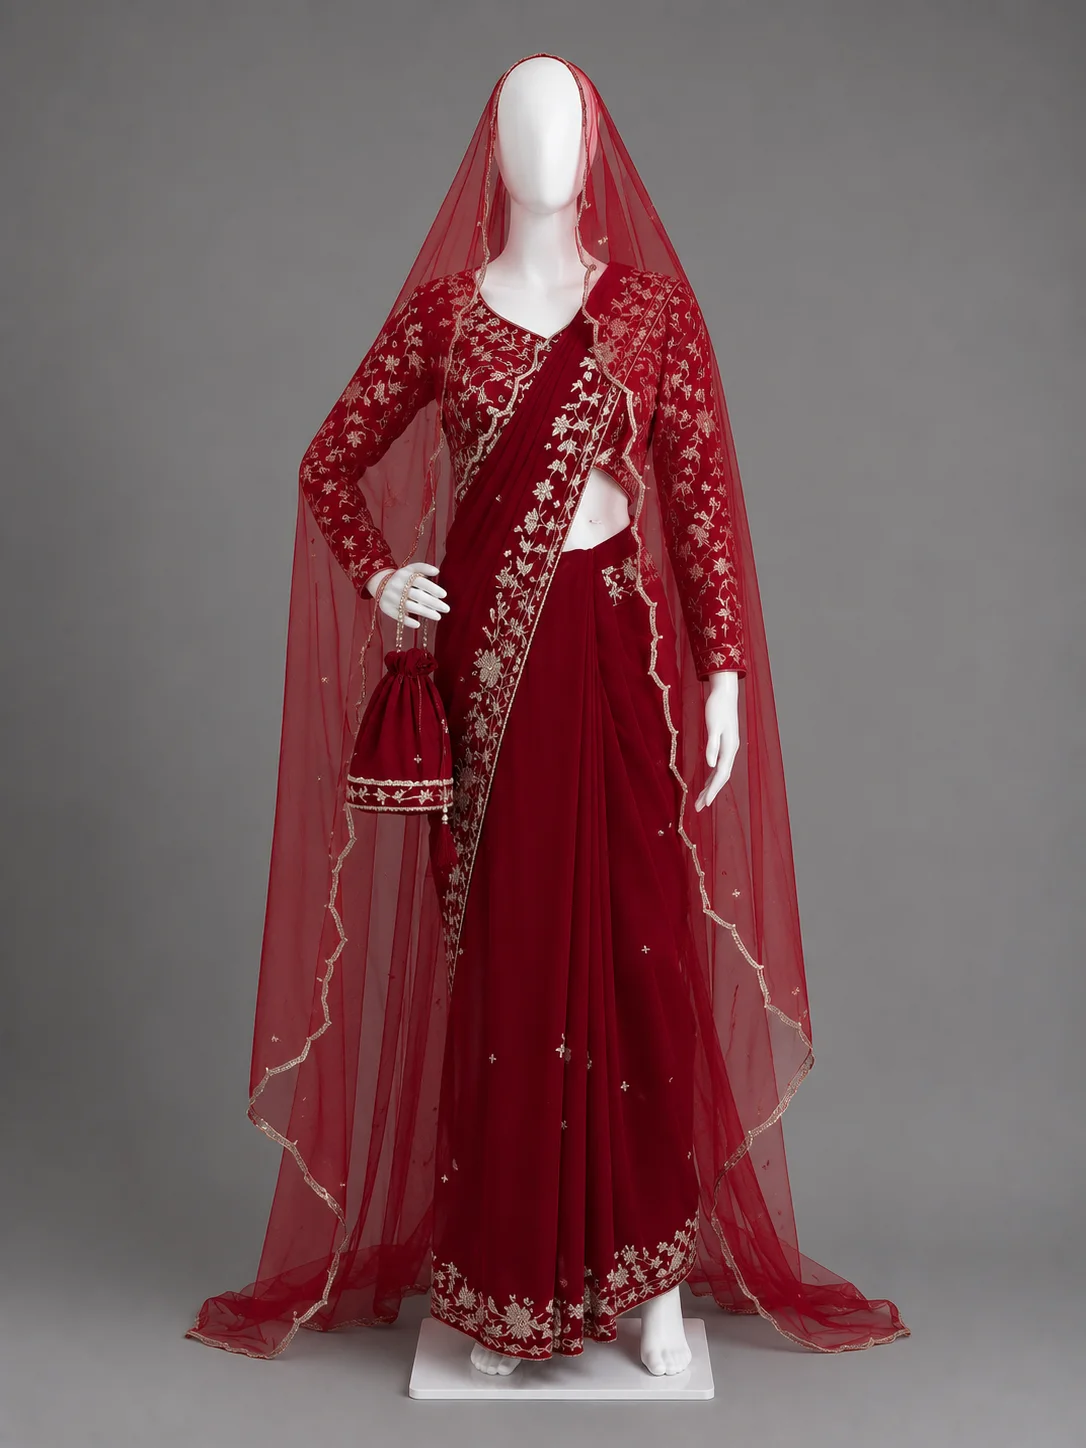
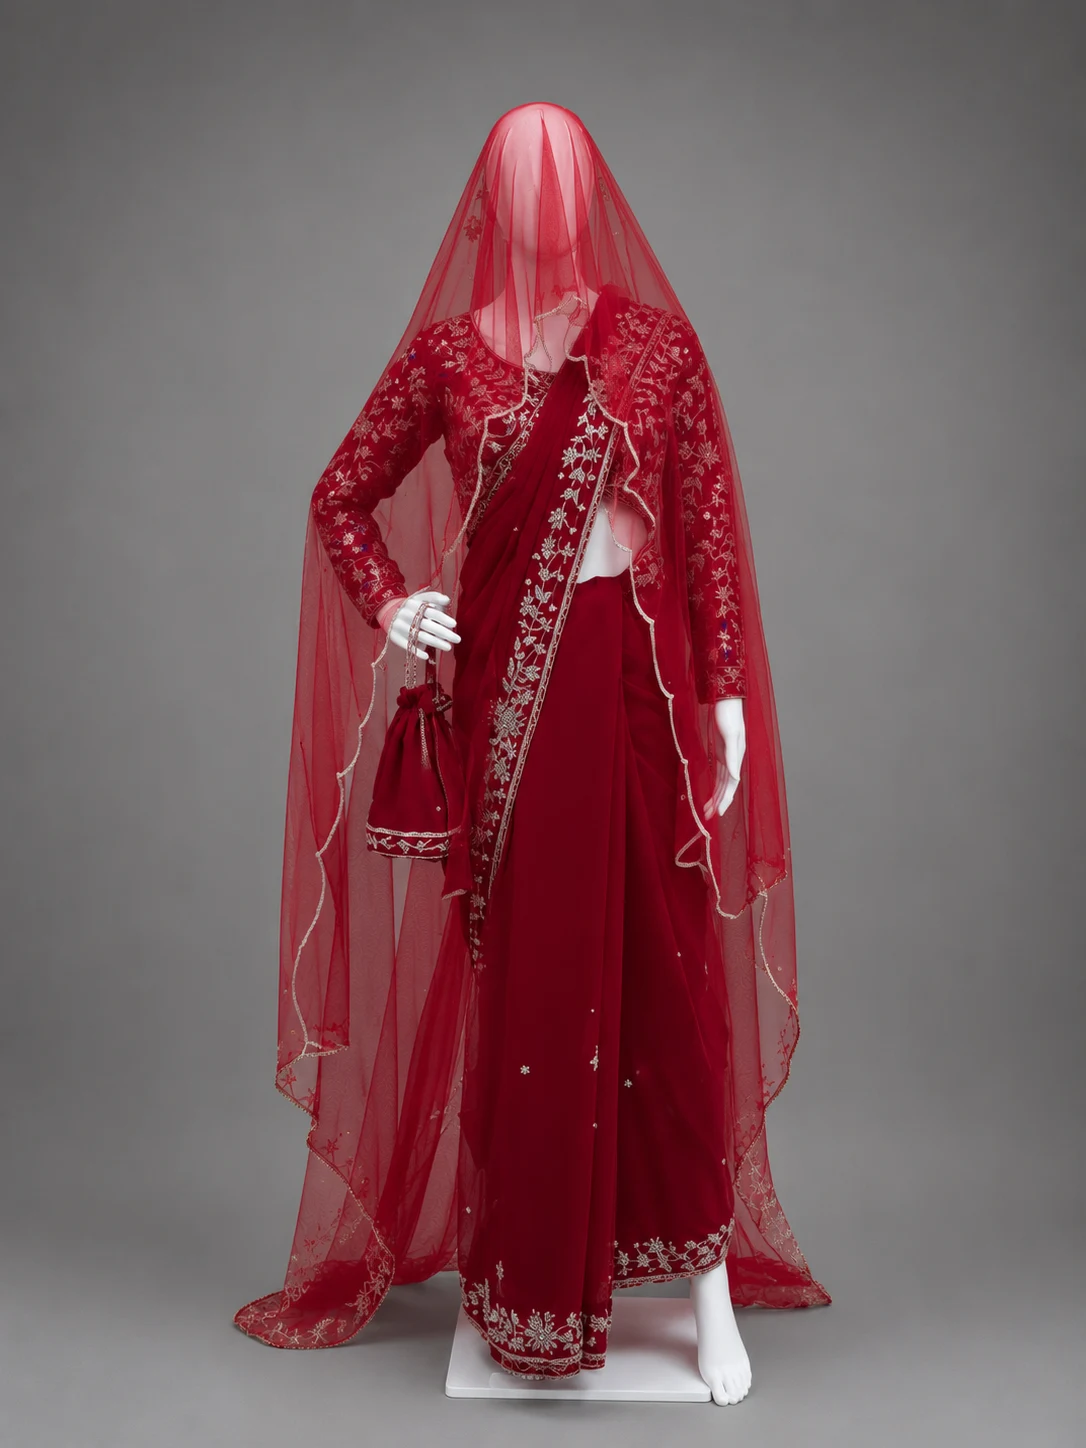
few changes

Changed region(s): [[0.1519, 0.0311, 0.8508, 0.9945], [0.942, 0.4972, 1.0, 0.808]]

diff --git a/collection/index.html b/collection/index.html
@@ -122,6 +122,13 @@
               <button class="tab-btn" data-category="matching" type="button">
                 Matching Collections
               </button>
+              <button
+                class="tab-btn"
+                data-category="sareee & kurta"
+                type="button"
+              >
+                Saree & Kurta
+              </button>
               <button class="tab-btn" data-category="lehenga" type="button">
                 Lehenga Collection
               </button>
